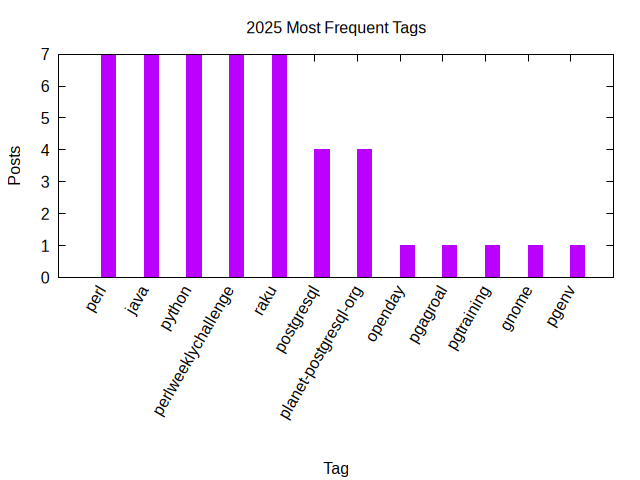
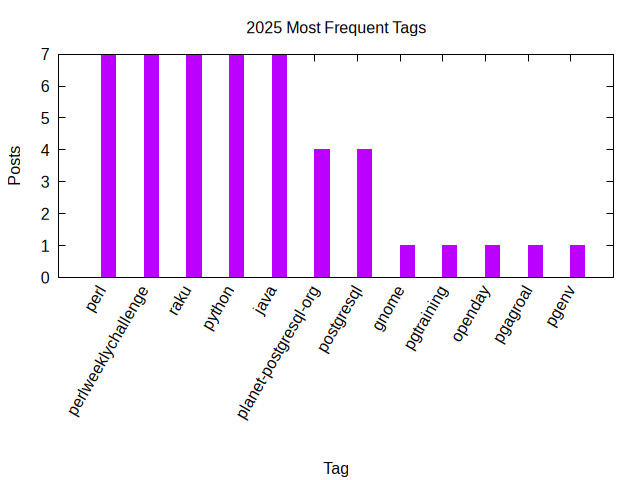
Stats update

diff --git a/_includes/stats/2025.md b/_includes/stats/2025.md
@@ -6,16 +6,16 @@ There have been *12 different tags* used, the most
 popular being (sorted by number of posts):
  
 - *perl* (7 posts)  
-- *java* (7 posts)  
-- *python* (7 posts)  
 - *perlweeklychallenge* (7 posts)  
 - *raku* (7 posts)  
-- *postgresql* (4 posts)  
+- *python* (7 posts)  
+- *java* (7 posts)  
 - *planet-postgresql-org* (4 posts)  
+- *postgresql* (4 posts)  
+- *gnome* (1 posts)  
+- *pgtraining* (1 posts)  
 - *openday* (1 posts)  
 - *pgagroal* (1 posts)  
-- *pgtraining* (1 posts)  
-- *gnome* (1 posts)  
 - *pgenv* (1 posts).<br/>
 <br/>
 The following is the overall 2025 post ratio by month:
@@ -35,7 +35,7 @@ The following is the overall 2025 post ratio by tag (showing max 30 tags):
 
 <div align="right">
 <small>
-Last generated on 2025-03-10 at 17:53
+Last generated on 2025-03-10 at 17:55
 </small>
 </div>
 
